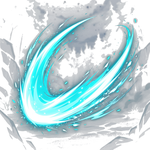
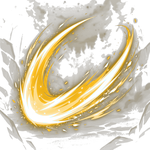
Recolor boss1 bullet to orange/yellow and boss2 bullet to red

diff --git a/game/hello-world/index.html b/game/hello-world/index.html
@@ -35,7 +35,7 @@
   <!-- Base64 Images Removed (Loaded directly as PNG in BootScene) -->
 
   <!-- Game Logic -->
-  <script>window.GAME_VERSION = 'v232';</script>
+  <script>window.GAME_VERSION = 'v233';</script>
   <script src="src/logic/audio.js?v=112"></script>
   <script src="src/logic/flags.js?v=109"></script>
   <script src="src/logic/endings.js?v=127"></script>

diff --git a/game/hello-world/shift_hue.py b/game/hello-world/shift_hue.py
@@ -1,0 +1,39 @@
+from PIL import Image
+import colorsys
+import os
+
+def shift_hue(img_path, target_hue, out_path):
+    if not os.path.exists(img_path):
+        print(f"File not found: {img_path}")
+        return
+    with Image.open(img_path) as img:
+        img = img.convert('RGBA')
+        data = img.getdata()
+        new_data = []
+        for item in data:
+            r, g, b, a = item
+            if a == 0:
+                new_data.append(item)
+                continue
+            
+            # Convert RGB to HSV
+            h, s, v = colorsys.rgb_to_hsv(r/255.0, g/255.0, b/255.0)
+            
+            # If it's mostly white (low saturation, high value), keep it somewhat white
+            if s < 0.1 and v > 0.9:
+                new_data.append(item)
+                continue
+                
+            # Set new hue but keep original saturation and value
+            r_new, g_new, b_new = colorsys.hsv_to_rgb(target_hue, s, v)
+            new_data.append((int(r_new*255), int(g_new*255), int(b_new*255), a))
+            
+        img.putdata(new_data)
+        img.save(out_path)
+        print(f"Saved {out_path} with hue {target_hue}")
+
+# Boss 1: Orange-ish yellow (hue around 0.12)
+shift_hue('assets/images/boss1_wind_slash.png', 0.12, 'assets/images/boss1_wind_slash.png')
+
+# Boss 2: Red (hue 0.0)
+shift_hue('assets/images/boss2_bullet.png', 0.0, 'assets/images/boss2_bullet.png')
